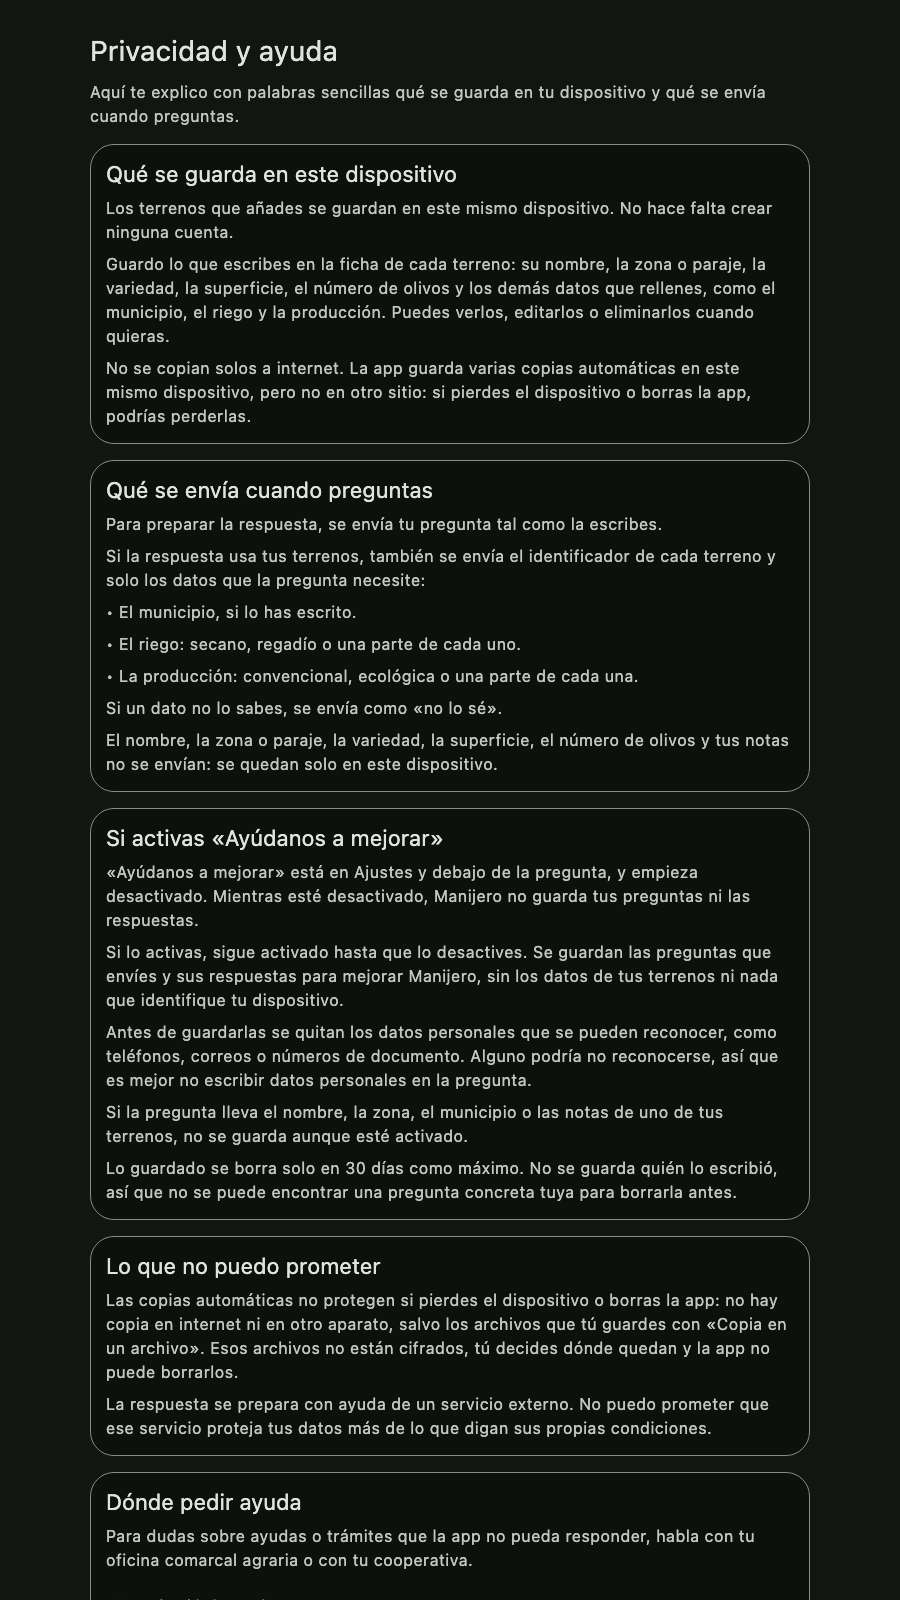
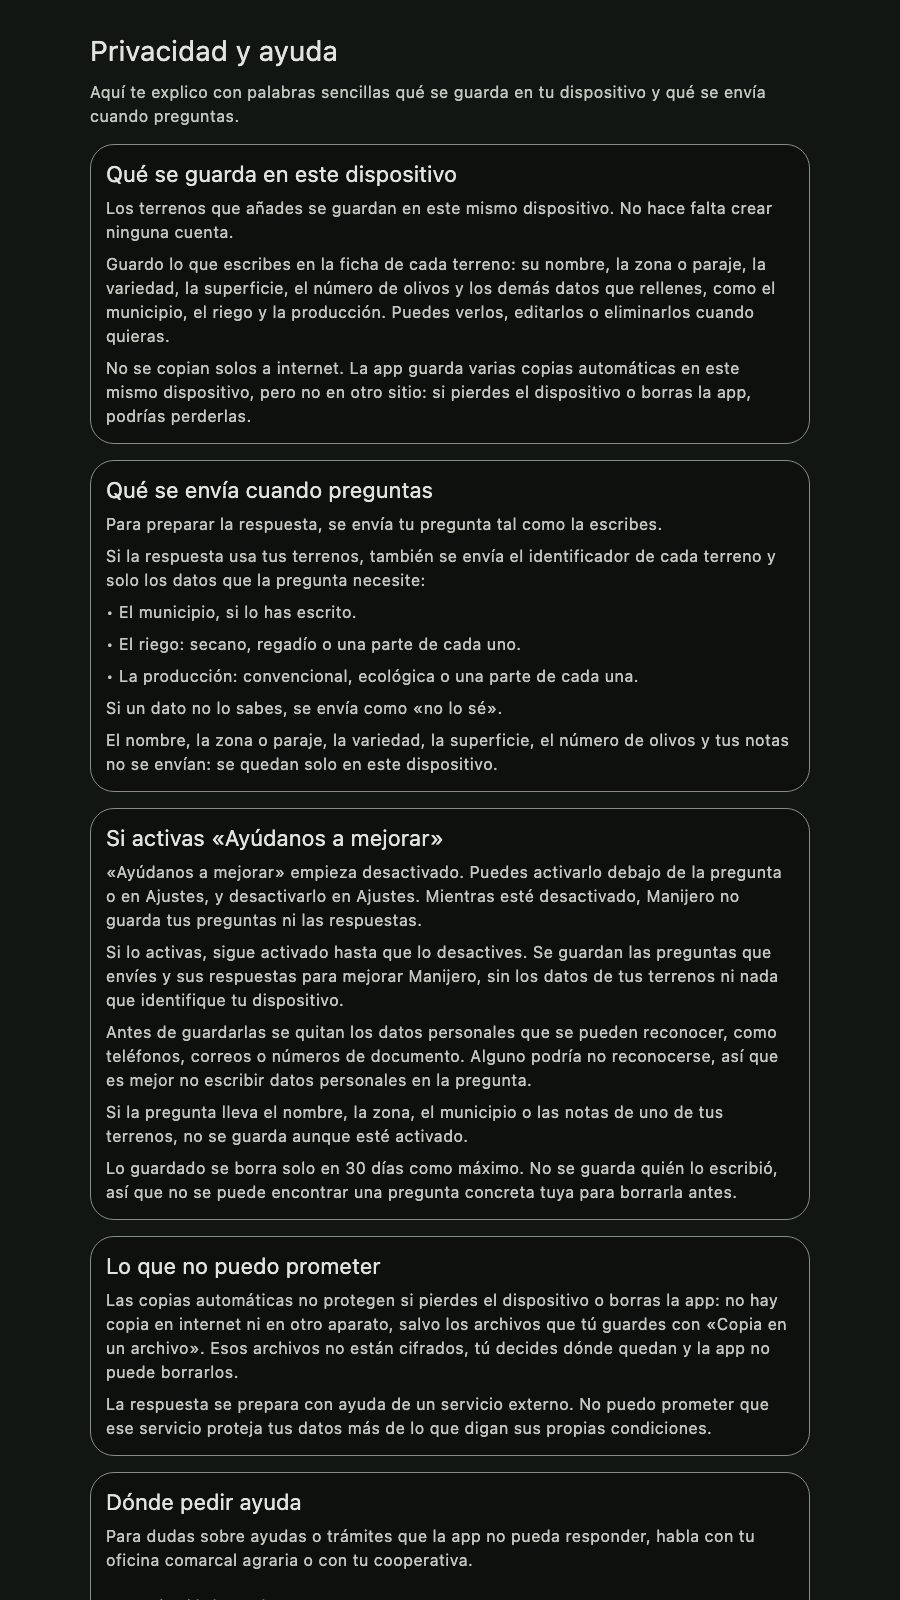
ui: hide the Ayúdanos a mejorar checkbox once it is on
The chat offers the checkbox only while the choice is off; after it is
ticked the row disappears and the choice can only be turned off with the
Ajustes switch. Copy, privacy notice, docs and tests updated.

Changed region(s): [[0.1244, 0.5312, 0.84, 0.5938]]

diff --git a/shared/src/commonMain/kotlin/com/jamarglex/manijero/chat/ChatHomeScreen.kt b/shared/src/commonMain/kotlin/com/jamarglex/manijero/chat/ChatHomeScreen.kt
@@ -334,11 +334,14 @@ private fun ChatComposer(
             )
         }
     }
-    RetentionChoice(
-        checked = state.retainQuestions,
-        onCheckedChange = { onAction(ChatHomeAction.RetentionChoiceChanged(it)) },
-        onInfoClick = onRetentionInfoClick,
-    )
+    // Once `Ayúdanos a mejorar` is on, the chat no longer offers it: it can only be turned off in
+    // `Ajustes` (owner decision 2026-11-08).
+    if (!state.retainQuestions) {
+        RetentionChoice(
+            onCheckedChange = { onAction(ChatHomeAction.RetentionChoiceChanged(it)) },
+            onInfoClick = onRetentionInfoClick,
+        )
+    }
 }
 
 /** The round send button: as tall as a one-line outlined field, well above the 48 dp target. */
@@ -348,7 +351,9 @@ private val ComposerSendButtonSize = 56.dp
 private val ComposerErrorLineHeight = 20.dp
 
 /**
- * The short `Ayúdanos a mejorar` choice: the same standing permission as the switch in `Ajustes`.
+ * The short `Ayúdanos a mejorar` choice, shown only while it is off: ticking it turns on the same
+ * standing permission as the switch in `Ajustes`, after which the row is hidden and the choice can
+ * only be turned off there.
  * The checkbox is its own 48 dp control, announced as a checkbox with its state and a name that
  * says what it saves. The visible label is a separate link to the `Ajustes` section that explains
  * the full purpose (what is kept, what is never kept, and the 30-day deletion); without
@@ -356,7 +361,6 @@ private val ComposerErrorLineHeight = 20.dp
  */
 @Composable
 private fun RetentionChoice(
-    checked: Boolean,
     onCheckedChange: (Boolean) -> Unit,
     onInfoClick: (() -> Unit)?,
 ) {
@@ -366,7 +370,8 @@ private fun RetentionChoice(
         verticalAlignment = Alignment.CenterVertically,
     ) {
         Checkbox(
-            checked = checked,
+            // Shown only while off: ticking it turns the choice on and the row disappears.
+            checked = false,
             onCheckedChange = onCheckedChange,
             modifier = Modifier.semantics { contentDescription = checkboxName },
         )

diff --git a/shared/src/jvmTest/kotlin/com/jamarglex/manijero/privacy/ImprovementConsentFlowInteractionTest.kt b/shared/src/jvmTest/kotlin/com/jamarglex/manijero/privacy/ImprovementConsentFlowInteractionTest.kt
@@ -16,7 +16,8 @@ import kotlin.test.assertEquals
 
 /**
  * `Ayúdanos a mejorar` end to end in the app: the chat label opens `Ajustes`, the switch there and
- * the chat checkbox are one saved value, and a new app on the same store keeps it.
+ * the chat checkbox are one saved value, the chat hides the checkbox while it is on, and a new app
+ * on the same store keeps it.
  */
 @OptIn(ExperimentalTestApi::class)
 class ImprovementConsentFlowInteractionTest {
@@ -47,17 +48,27 @@ class ImprovementConsentFlowInteractionTest {
             onNode(switch).assertIsOn()
             assertEquals(listOf(true), store.writes)
 
+            // On: the chat hides the choice, so it can only be turned off in Ajustes.
             onNodeWithText("Asistente").performClick()
-            onNode(checkbox).assertIsOn().performClick()
-            onNode(checkbox).assertIsOff()
+            onNode(checkbox).assertDoesNotExist()
+
+            onNodeWithText("Ajustes").performClick()
+            onNode(switch).performScrollTo().assertIsOn().performClick()
             assertEquals(listOf(true, false), store.writes)
+
+            onNodeWithText("Asistente").performClick()
+            onNode(checkbox).assertIsOff().performClick()
+            onNode(checkbox).assertDoesNotExist()
+            assertEquals(listOf(true, false, true), store.writes)
         }
 
     @Test
-    fun aSavedChoiceIsShownOnLaunch() =
+    fun aSavedOnChoiceHidesTheChatCheckboxAndShowsInAjustes() =
         runDesktopComposeUiTest(width = 900, height = 2400) {
             val store = FakeStore().apply { value = true }
             setContent { App(improvementConsent = store) }
-            onNode(checkbox).assertIsOn()
+            onNode(checkbox).assertDoesNotExist()
+            onNodeWithText("Ajustes").performClick()
+            onNode(switch).performScrollTo().assertIsOn()
         }
 }

diff --git a/shared/src/jvmTest/kotlin/com/jamarglex/manijero/chat/ChatHomeInteractionTest.kt b/shared/src/jvmTest/kotlin/com/jamarglex/manijero/chat/ChatHomeInteractionTest.kt
@@ -187,10 +187,13 @@ class ChatHomeInteractionTest {
             onNode(hasContentDescription(checkbox) and isToggleable()).assertIsOff().performClick()
 
             assertEquals(listOf<ChatHomeAction>(ChatHomeAction.RetentionChoiceChanged(true)), actions)
-            onNode(hasContentDescription(checkbox) and isToggleable()).assertIsOn()
+            // Once on, the chat no longer offers it; it is turned off only in Ajustes.
+            onNode(hasContentDescription(checkbox)).assertDoesNotExist()
+            onNodeWithText("Ayúdanos a mejorar").assertDoesNotExist()
             onNodeWithContentDescription("Preguntar").assertIsEnabled()
 
-            // The short label is a separate link to the full explanation in Ajustes; it never toggles.
+            // While off, the short label is a separate link to Ajustes; it never toggles.
+            state = state.copy(retainQuestions = false)
             onNodeWithText("Ayúdanos a mejorar").assertHasClickAction().performClick()
             assertEquals(1, infoOpened)
             assertEquals(1, actions.size)

diff --git a/DESIGN.md b/DESIGN.md
@@ -329,7 +329,9 @@ component layer. These rules are durable:
   pinned bar, sits one short row: a checkbox (its own 48 dp control, named `Ayúdanos a mejorar:
   guardar tus preguntas y respuestas`) and the underlined label `Ayúdanos a mejorar`, a separate
   link that opens `Ajustes`. The full explanation lives only there. It is the same standing,
-  off-by-default value as the `Ajustes` switch; ticking it never sends and sending keeps it.
+  off-by-default value as the `Ajustes` switch; ticking it never sends and sending keeps it. The row
+  shows only while the choice is off: once ticked it disappears from the chat, and the choice can
+  only be turned off with the `Ajustes` switch.
 - **Footer.** The privacy summary is always present at the end of the scrolling content; the two
   icon + label footer actions appear only when their callbacks are wired.
 - **Land chooser.** The clarification chooser is an outlined card with the accepted title,
@@ -341,7 +343,7 @@ component layer. These rules are durable:
   `titleMedium` title without heading semantics, four `bodyLarge` lines, and one `OutlinedButton`
   `Entendido`. It blocks nothing and pushes the hero down on compact screens.
 - **Compact layout.** At 360×800 dp with both shell bars, the pinned field, send button and
-  `Ayúdanos a mejorar` row are always on screen; the privacy summary needs a scroll below the
+  `Ayúdanos a mejorar` row (while off) are always on screen; the privacy summary needs a scroll below the
   suggestions. At 2× text the pinned bar may reach its half-screen cap and scroll on its own.
 - **Answer feedback row.** Every finished answer (`answered` or `abstained`) carries one quiet row
   directly below the card and its source cards and above `Inspeccionar`: two neutral outlined

diff --git a/docs/constraints/lands.md b/docs/constraints/lands.md
@@ -158,7 +158,8 @@ Durable MUST/MUST NOT rules for land editing, fields, storage, automatic copies,
   live outside the repository in an owner-only directory, and every read or export MUST exclude a
   record whose `expires_on` (creation + 29 days) has arrived. The client MUST send
   `retain_for_improvement: true` only while the person's off-by-default `Ayúdanos a mejorar` choice
-  is on (the chat checkbox and the `Ajustes` switch are one device-local value; an unreadable store
+  is on (the chat checkbox, shown only while off, and the `Ajustes` switch, the only way to turn it
+  off, are one device-local value; an unreadable store
   reads as off; it is excluded from Android backup and device transfer), and MUST drop it when the
   wording contains a saved land's name, zone,
   municipality, custom variety, or notes. `backend/config/pilot_privacy_review.json` MUST only be

diff --git a/docs/pilot-privacy.md b/docs/pilot-privacy.md
@@ -34,7 +34,8 @@ privacy gate").
   `Ayúdanos a mejorar` opt-in, nothing is written even when a store exists.
 - **Standing choice, separate from sending (owner decision 2026-11-08).** `Ayúdanos a mejorar`
   starts off. It is one device-local value shown as a checkbox under the chat field (its short
-  label links to `Ajustes`) and as a switch in `Ajustes`, where the full explanation lives.
+  label links to `Ajustes`, and the checkbox is shown only while the choice is off) and as a switch
+  in `Ajustes`, where the full explanation lives and the only place to turn it off.
   Ticking it never sends. While it is on, every send (ask, retry, land choice) asks to retain;
   it stays on until the person turns it off. An unreadable store reads as off, and Android
   backup and device transfer exclude it. A clarification response is never retained.
